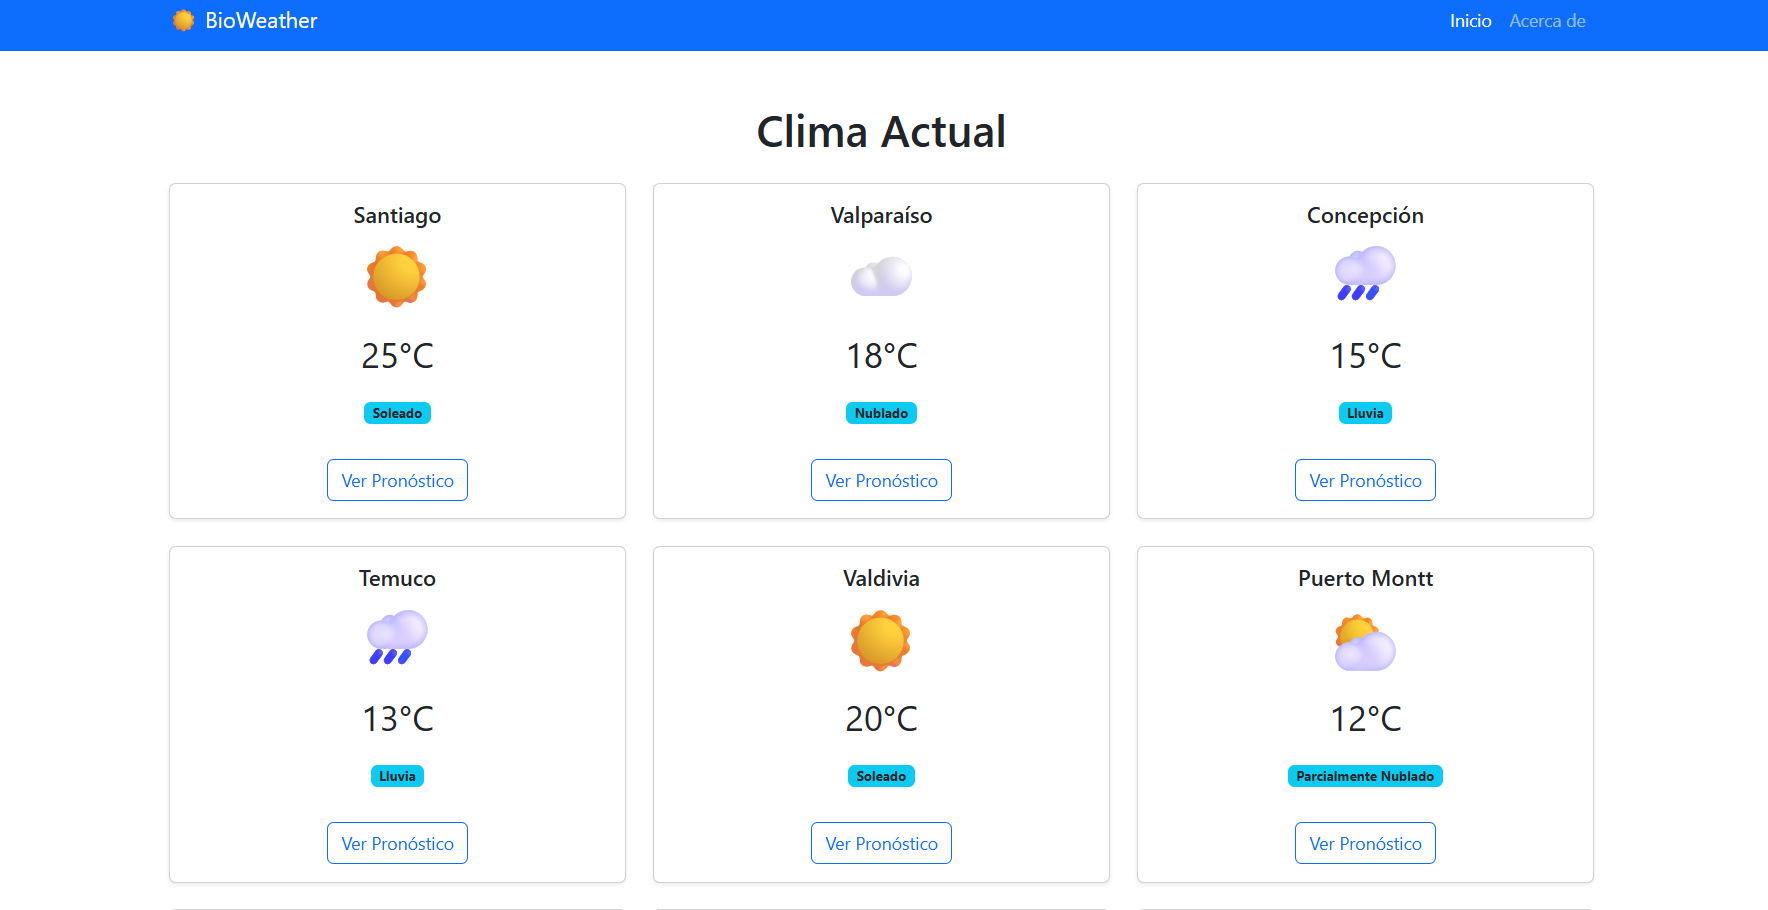
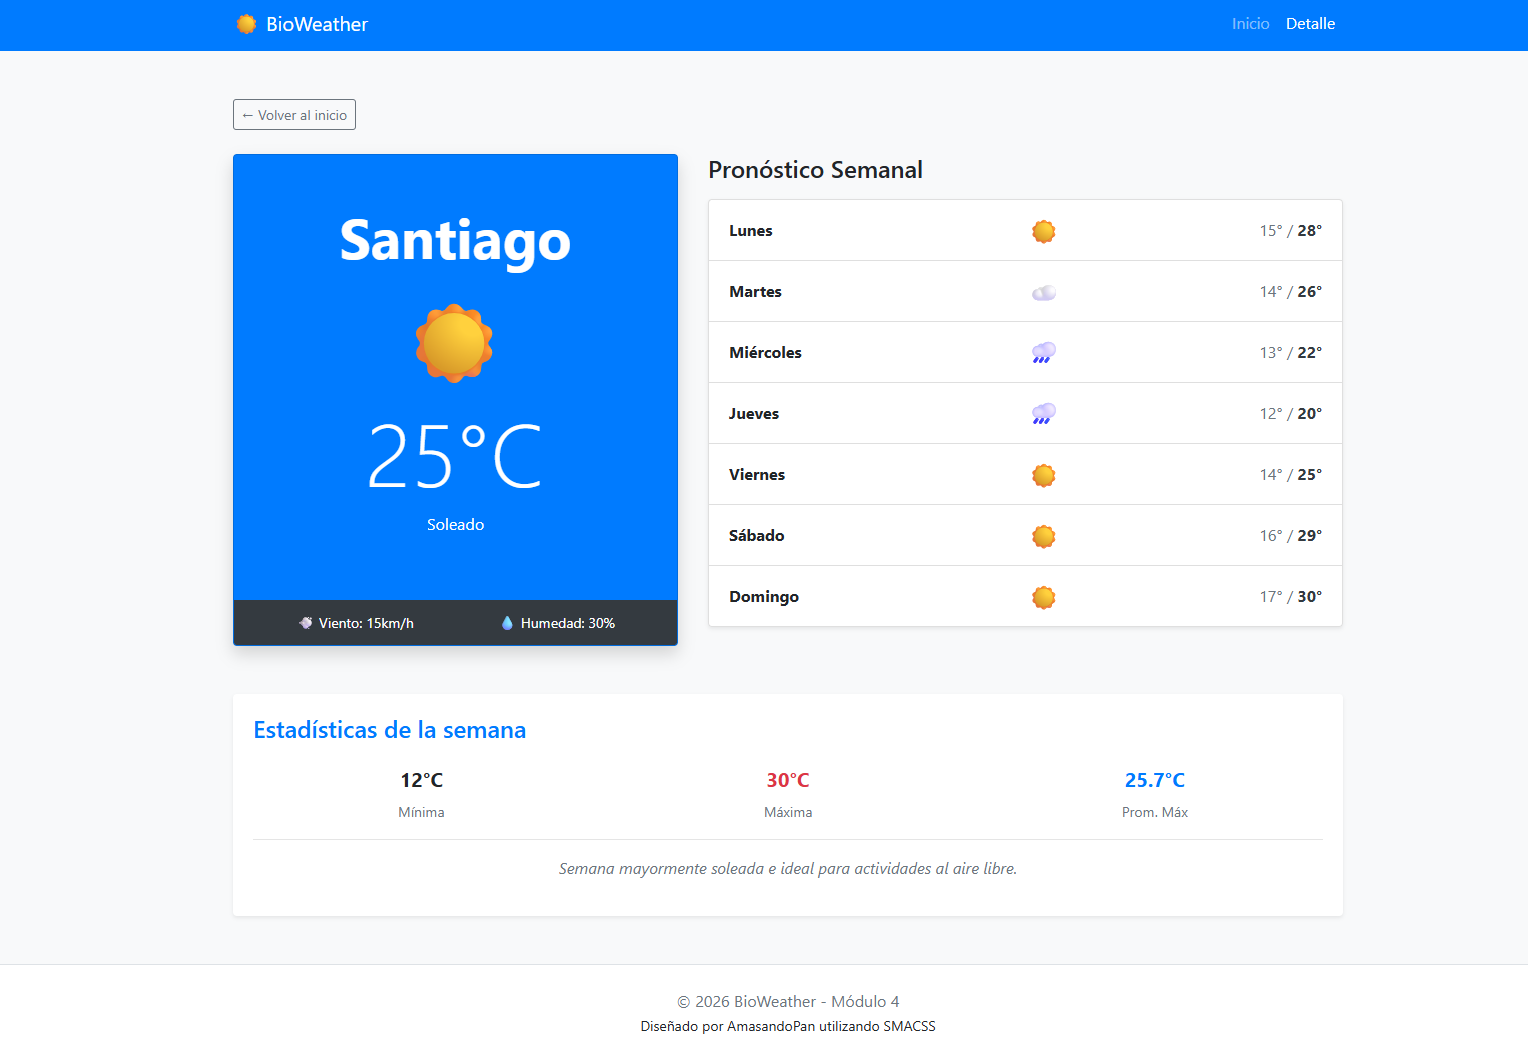
se modifica archivo readme acorde con los nuevos ejercicios, pequeñas correcciones a los archivos html, se agrega nueva captura de pantalla

diff --git a/assets/js/script-detalle.js b/assets/js/script-detalle.js
@@ -1,7 +1,7 @@
-// Función para buscar lugar por ID
+// Función para buscar lugar por ID 
 const obtenerLugar = (id) => localidades.find((l) => l.id == id);
 
-// Función para calcular estadísticas
+// Función para calcular estadísticas (Requisito Módulo 4)
 function calcularEstadisticas(pronostico) {
   let sumaMax = 0;
   let minSemana = pronostico[0].min;
@@ -9,20 +9,20 @@ function calcularEstadisticas(pronostico) {
   let conteoClimas = {};
 
   for (let dia of pronostico) {
-    // Min y Max absoluta
+    // Cálculo de Mínima y Máxima absoluta
     if (dia.min < minSemana) minSemana = dia.min;
     if (dia.max > maxSemana) maxSemana = dia.max;
 
-    // Suma para el promedio
+    // Acumular para el promedio
     sumaMax += dia.max;
 
-    // Conteo de tipos de clima
+    // Conteo de tipos de clima (para el resumen)
     conteoClimas[dia.estado] = (conteoClimas[dia.estado] || 0) + 1;
   }
 
   const promedioMax = (sumaMax / pronostico.length).toFixed(1);
 
-  // Generar resumen textual
+  // Lógica condicional para el resumen textual
   let resumen = "";
   if (conteoClimas["Soleado"] > 3) {
     resumen =
@@ -34,39 +34,67 @@ function calcularEstadisticas(pronostico) {
       "Semana con clima variado, se recomienda revisar el reporte diario.";
   }
 
-  return { minSemana, maxSemana, promedioMax, conteoClimas, resumen };
+  return { minSemana, maxSemana, promedioMax, resumen };
 }
 
-//Renderizado
+//  Renderizado de la página
 const idSel = localStorage.getItem("ciudadSeleccionada");
 const ciudad = obtenerLugar(idSel);
 
 if (ciudad) {
+  // Rellenar datos principales 
   document.getElementById("det-nombre").innerText = ciudad.nombre;
-  document.getElementById("det-temp").innerText = ciudad.tempActual;
-  document.getElementById("det-estado").innerText = ciudad.estadoActual; 
+  document.getElementById("det-temp").innerText = `${ciudad.tempActual}°C`;
+  document.getElementById("det-estado").innerText = ciudad.estadoActual;
   document.getElementById("det-icono").innerText = ciudad.icono;
   document.getElementById("det-viento").innerText = ciudad.viento;
   document.getElementById("det-humedad").innerText = ciudad.humedad;
 
+  // Ejecutar cálculos
   const stats = calcularEstadisticas(ciudad.pronosticoSemanal);
 
-  // Inyectar estadísticas en el HTML
-  document.getElementById("stats-container").innerHTML = `
-        <div class="col-4"><h5>${stats.minSemana}°C</h5><small>Mínima</small></div>
-        <div class="col-4"><h5>${stats.maxSemana}°C</h5><small>Máxima</small></div>
-        <div class="col-4"><h5>${stats.promedioMax}°C</h5><small>Prom. Máx</small></div>
+  // Inyectar estadísticas
+  const statsContainer = document.getElementById("stats-container");
+  if (statsContainer) {
+    statsContainer.innerHTML = `
+        <div class="col-4">
+            <h5 class="font-weight-bold">${stats.minSemana}°C</h5>
+            <small class="text-muted">Mínima</small>
+        </div>
+        <div class="col-4">
+            <h5 class="font-weight-bold text-danger">${stats.maxSemana}°C</h5>
+            <small class="text-muted">Máxima</small>
+        </div>
+        <div class="col-4">
+            <h5 class="font-weight-bold text-primary">${stats.promedioMax}°C</h5>
+            <small class="text-muted">Prom. Máx</small>
+        </div>
     `;
-  document.getElementById("resumen-texto").innerText = stats.resumen;
+  }
 
-  // Renderizar lista de pronóstico 
+  // Inyectar resumen textual
+  const resumenElem = document.getElementById("resumen-texto");
+  if (resumenElem) {
+    resumenElem.innerText = stats.resumen;
+  }
+
+  // Limpiar y renderizar lista de pronóstico semanal
   const lista = document.getElementById("lista-pronostico");
-  ciudad.pronosticoSemanal.forEach((dia) => {
-    lista.innerHTML += `
+  if (lista) {
+    lista.innerHTML = ""; 
+    ciudad.pronosticoSemanal.forEach((dia) => {
+      const iconoDia =
+        dia.estado === "Soleado" ? "☀" : dia.estado === "Lluvia" ? "🌧" : "☁";
+
+      lista.innerHTML += `
             <div class="list-group-item d-flex justify-content-between align-items-center">
-                <span>${dia.dia}</span>
-                <span>${dia.estado === "Soleado" ? "☀" : "🌧"}</span>
-                <span>${dia.min}° / ${dia.max}°</span>
+                <span class="font-weight-bold" style="width: 100px;">${dia.dia}</span>
+                <span style="font-size: 1.5rem;">${iconoDia}</span>
+                <span class="text-muted">${dia.min}° / <span class="text-dark font-weight-bold">${dia.max}°</span></span>
             </div>`;
-  });
+    });
+  }
+} else {
+  // Si no hay ciudad  volvemos al home
+  window.location.href = "index.html";
 }

diff --git a/detalle.html b/detalle.html
@@ -70,7 +70,7 @@
 
     <footer class="layout-footer bg-white border-top py-4">
       <div class="container text-center">
-        <p class="mb-0 text-muted">&copy; 2026 BioWeather - Módulo 3</p>
+        <p class="mb-0 text-muted">&copy; 2026 BioWeather - Módulo 4</p>
         <small>Diseñado por AmasandoPan utilizando SMACSS</small>
       </div>
     </footer>

diff --git a/index.html b/index.html
@@ -35,7 +35,7 @@
 
     <footer class="layout-footer bg-white border-top py-4">
       <div class="container text-center">
-        <p class="mb-0 text-muted">&copy; 2026 BioWeather - Módulo 3</p>
+        <p class="mb-0 text-muted">&copy; 2026 BioWeather - Módulo 4</p>
         <small>Diseñado por AmasandoPan utilizando SMACSS</small>
       </div>
     </footer>

diff --git a/README.md b/README.md
@@ -1,4 +1,6 @@
-**BioWeather** es una aplicación web diseñada para visualizar el clima actual de manera regional. En esta tercera iteración (Módulo 3), el proyecto ha sido refactorizado para implementar una arquitectura de estilos profesional, escalable y mantenible.
+# ☀ BioWeather - Módulo 4: Lógica y Estadísticas en JavaScript
+
+**BioWeather** es una aplicación web diseñada para visualizar el clima regional de manera dinámica. En esta cuarta iteración, el proyecto evoluciona de una interfaz estática a una aplicación funcional capaz de procesar datos, calcular estadísticas climáticas y generar reportes automáticos mediante JavaScript.
 
 ---
 
@@ -9,49 +11,45 @@ Puedes ver el proyecto funcionando aquí:
 
 ---
 
-## ✨ Características
+## ✨ Características de esta versión (Módulo 4)
 
-* **Interfaz Responsiva:** Gracias a Bootstrap 4, la web se adapta perfectamente a móviles, tablets y escritorio.
-* **Datos en Tiempo Real:** Integración dinámica para mostrar el clima actual.
-* **Diseño Limpio:** Navegación intuitiva y visualización de tarjetas (cards) para una lectura rápida.
+- **Gestión Dinámica de Datos:** Los datos han sido migrados a un modelo de objetos en JavaScript, eliminando el contenido "quemado" en el HTML.
+- **Cálculos Estadísticos:** La aplicación recorre el pronóstico semanal de cada lugar para calcular:
+  - Temperatura mínima absoluta.
+  - Temperatura máxima absoluta.
+  - Promedio de temperaturas máximas de la semana.
+- **Resumen Inteligente:** Generación de mensajes textuales dinámicos basados en la frecuencia de estados climáticos (ej: "Semana mayormente soleada").
+- **Persistencia de Selección:** Uso de `localStorage` para comunicar la elección del usuario entre la vista principal y la vista de detalle.
+- **Arquitectura Modular:** Mantengo la estructura **SMACSS** para CSS y una separación clara de responsabilidades en los archivos JS.
+
+---
 
 ## 🛠 Tecnologías Utilizadas
 
-El proyecto fue construido utilizando el siguiente stack:
+- **HTML5 & Bootstrap 4:** Estructura y diseño responsivo.
+- **SASS:** Estilos modulares con variables, mixins y metodología BEM.
+- **JavaScript (Vanilla ES6+):** \* Uso de ciclos (`for...of`) para procesamiento de datos.
+  - Funciones de búsqueda y filtrado (`.find()`, `.forEach()`).
+  - Manipulación dinámica del DOM.
 
-* **HTML5:** Estructura semántica del sitio.
-* **SASS:** Uso de variables, mixins, anidamiento y parciales.
-* **Bootstrap 4:** Framework para el sistema de grilla responsiva y componentes.
-* **JavaScript (Vanilla):** Lógica dinámica y gestión de datos.
+---
 
+## 📊 Modelado de Datos
 
-## 🛠 Organización de Estilos (SMACSS + BEM)
+Los datos están organizados en un arreglo de objetos centralizado. Ejemplo de la estructura utilizada:
 
-He implementado la metodología **SMACSS** para la estructura de carpetas, combinándola con la nomenclatura **BEM** (Block, Element, Modifier) para las clases de CSS, garantizando un código legible y modular.
-
-
-* **Estructura de archivos SASS:**
-
-    * `base/`: Resets y variables de color.
-    * `layout/`: Estructura global (header/footer).
-    * `modules/`: Estilos específicos de la `weather-card`.
-    * `state/`: Clases de estado para diferentes condiciones climáticas.
-    
-
-
-## ✨ Caracteristicas de esta versión (Modulo 3)
-
-**Arquitectura modular:** Uso de parciales de SASS importados en un archivo main.scss maestro.
-
-**Modelo de cajas:** Aplicación técnica de padding, margins y borders para un layout limpio.
-
-**Responsividad Estricta:**
-
-  **Móvil ($\le$ 420px):** Cards apiladas en una sola columna para lectura vertical.
-
-  **Desktop ($\ge$ 1024px):** Layout multi-columna con espaciado coherente.
-
-**Mixins Personalizados:** Implementación de mixins para efectos de hover y centrado dinámico.
+````javascript
+{
+  id: 1,
+  nombre: "Santiago",
+  tempActual: 25,
+  estadoActual: "Soleado",
+  pronosticoSemanal: [
+    { dia: "Lunes", min: 15, max: 28, estado: "Soleado" },
+    { dia: "Martes", min: 14, max: 26, estado: "Nublado" },
+    // ... hasta completar 7 días
+  ]
+}
 
 ---
 
@@ -67,7 +65,7 @@ Si quieres clonar este proyecto y ejecutarlo en tu máquina local, sigue estos p
 
 1.  **Clona el repositorio:**
     ```bash
-    git clone [https://github.com/AmasandoPan/weather-frontend-m3.git]
+    git clone [https://github.com/AmasandoPan/weather-frontend-m4.git]
     ```
 2.  **Compilación de SASS:** Asegúrate de tener instalado Live Sass Compiler o similar para procesar `/scss/main.scss` hacia `/css/main.css`.
 
@@ -77,8 +75,9 @@ Si quieres clonar este proyecto y ejecutarlo en tu máquina local, sigue estos p
 
 ## 👤 Autor
 
-Desarrollado con ❤ por **AmasandoPan**.  
-*Proyecto Clima M3 - 2026*
+Desarrollado con ❤ por **AmasandoPan**.
+*Proyecto Clima M4 - 2026*
 
 ---
 © 2026 BioWeather. Todos los derechos reservados.
+````
